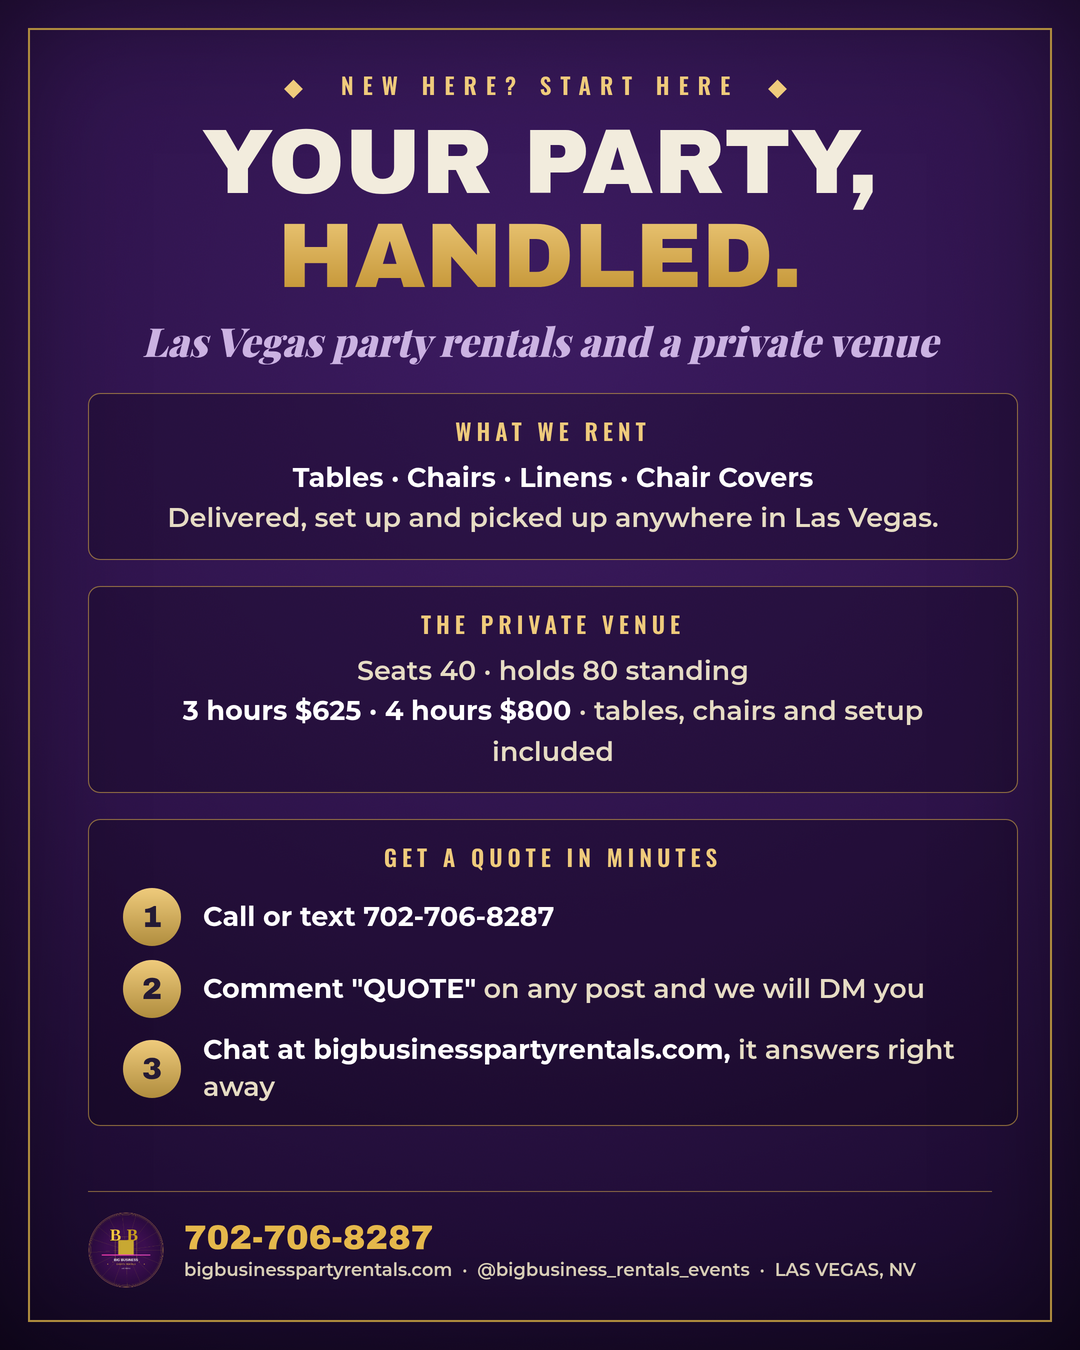
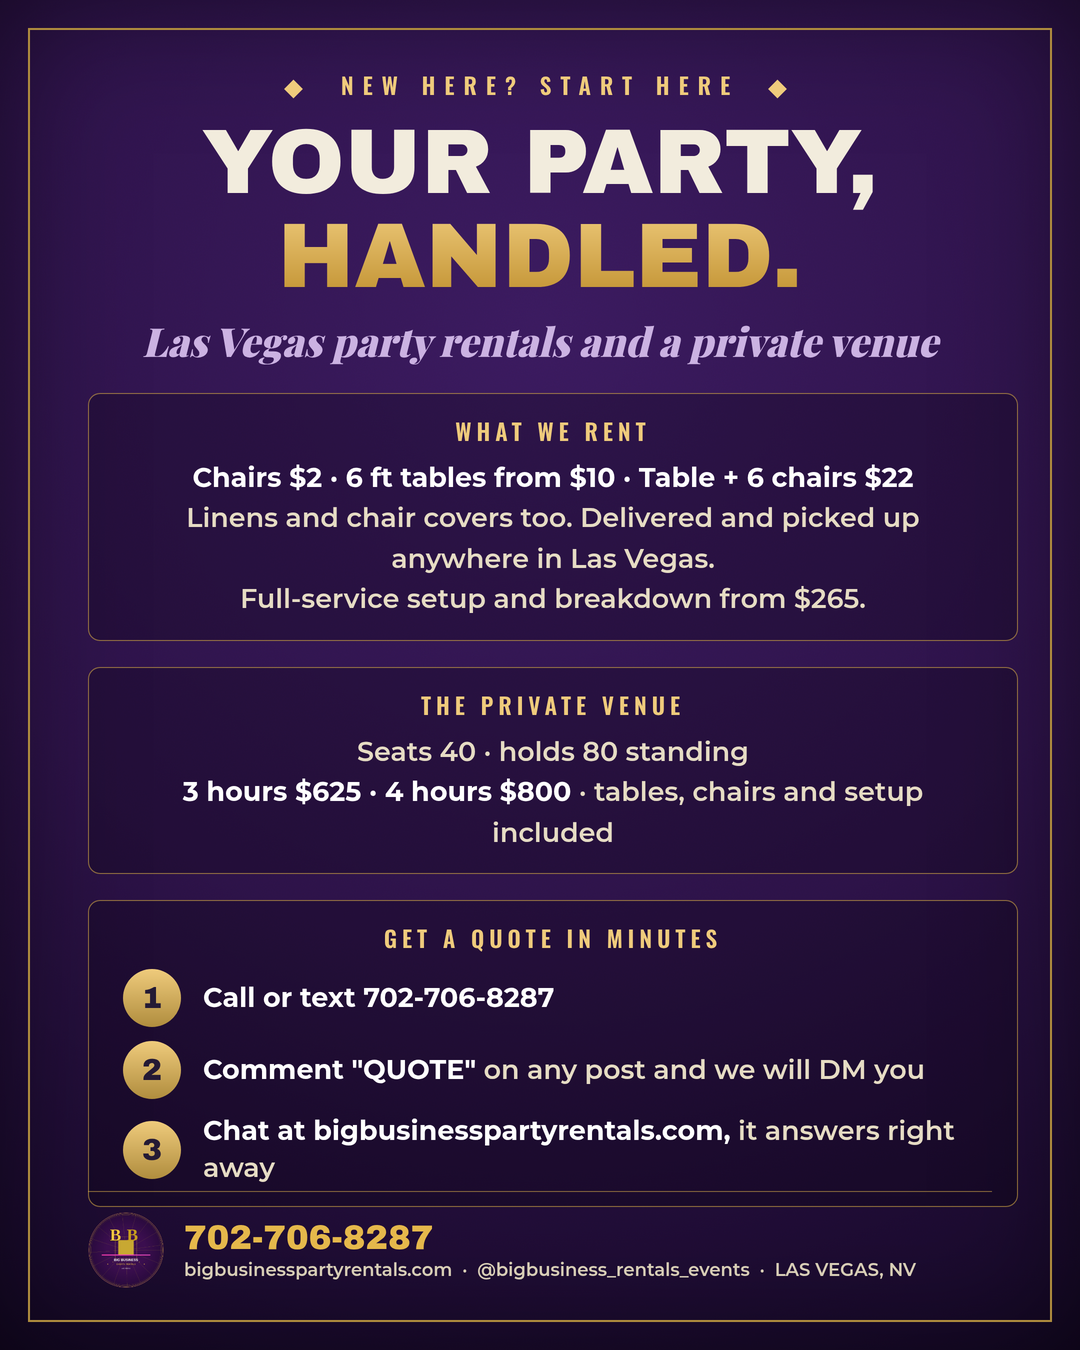
Official rental price list: owner price card saved, START HERE card now shows real prices, copy rule logged
Claude-Session: https://claude.ai/code/session_017gFjVqkwgLPg6xPremjBSu

Changed region(s): [[0.0917, 0.3422, 0.8861, 0.8711]]

diff --git a/big-business-rentals/flyers/BB_StartHere.html b/big-business-rentals/flyers/BB_StartHere.html
@@ -45,7 +45,7 @@ body{position:relative;font-family:'Montserrat';color:#f2ecdd;
     <div class="script">Las Vegas party rentals and a private venue</div>
     <div class="box">
       <div class="boxh">WHAT WE RENT</div>
-      <div class="line"><b>Tables · Chairs · Linens · Chair Covers</b><br>Delivered, set up and picked up anywhere in Las Vegas.</div>
+      <div class="line"><b>Chairs $2 · 6 ft tables from $10 · Table + 6 chairs $22</b><br>Linens and chair covers too. Delivered and picked up anywhere in Las Vegas.<br>Full-service setup and breakdown from $265.</div>
     </div>
     <div class="box">
       <div class="boxh">THE PRIVATE VENUE</div>

diff --git a/big-business-rentals/build_starthere_card.py b/big-business-rentals/build_starthere_card.py
@@ -59,7 +59,7 @@ body{position:relative;font-family:'Montserrat';color:#f2ecdd;
     <div class="script">Las Vegas party rentals and a private venue</div>
     <div class="box">
       <div class="boxh">WHAT WE RENT</div>
-      <div class="line"><b>Tables · Chairs · Linens · Chair Covers</b><br>Delivered, set up and picked up anywhere in Las Vegas.</div>
+      <div class="line"><b>Chairs $2 · 6 ft tables from $10 · Table + 6 chairs $22</b><br>Linens and chair covers too. Delivered and picked up anywhere in Las Vegas.<br>Full-service setup and breakdown from $265.</div>
     </div>
     <div class="box">
       <div class="boxh">THE PRIVATE VENUE</div>

diff --git a/CLAUDE.md b/CLAUDE.md
@@ -24,6 +24,14 @@ Research backing the strategy: `reports/Party rental content strategy.md`.
 - Do not invent prices or services. Known prices: Venue Package 3-Hour $625 (up to 25 guests),
   4-Hour $800 (up to 40). Venue: seats 40, holds 80 standing. Referral: up to $100 per booking,
   fine print "Reward based on booking size, up to $100 · No limit on referrals · Paid after the referred event is completed".
+  RENTAL PRICE LIST (owner-supplied price card, Oct 18 night; the pending price-list unlock is
+  DONE): DROP-OFF prices: folding chair $2 · 6 ft rectangle table $10 · 6 ft round table $15 ·
+  table + 6 chairs set $22. Drop-off = delivered and picked up, CUSTOMER sets up, delivery quoted
+  with the order (not free, not included in item price). FULL-SERVICE (we set up and break down):
+  packages FROM $265. COPY RULE from this point: for rentals say "delivered and picked up" plus
+  "full-service setup available", never a blanket "setup included" (that applies to the VENUE
+  package only, where it IS included). Owner's card saved at flyers/BB_PriceCard_Owner.png and
+  posted; reuse these numbers freely, never others.
 
 ## The daily set (triggered when user names a weekday, e.g. "Monday")
 8 pieces/day through October, each labeled with its ROUTING:
@@ -150,8 +158,7 @@ Approved expansions ("ok"), live now:
   are allowed on Google posts per the firstComment rule.
 - SUNDAY REPORT COUNTS LEADS: ask the owner each Sunday for rough call/DM/site-chat counts and
   fold them into the weekly report; steer lanes by leads, not reach.
-PENDING OWNER INPUT (ask when relevant, never invent): rental PRICE LIST (unlocks price menu card
-+ "Comment PRICE" lead magnet), weekly OPEN DATES list (unlocks scarcity posts; becomes the
+PENDING OWNER INPUT (ask when relevant, never invent): weekly OPEN DATES list (unlocks scarcity posts; becomes the
 countdown lane's replacement after Oct 31 as a December-dates countdown), SPANISH DM confirmation
 (unlocks "Comenta COTIZA" keyword CTAs in the español lane), weekly $5-10 boost pick (report names
 the candidate each Sunday).
